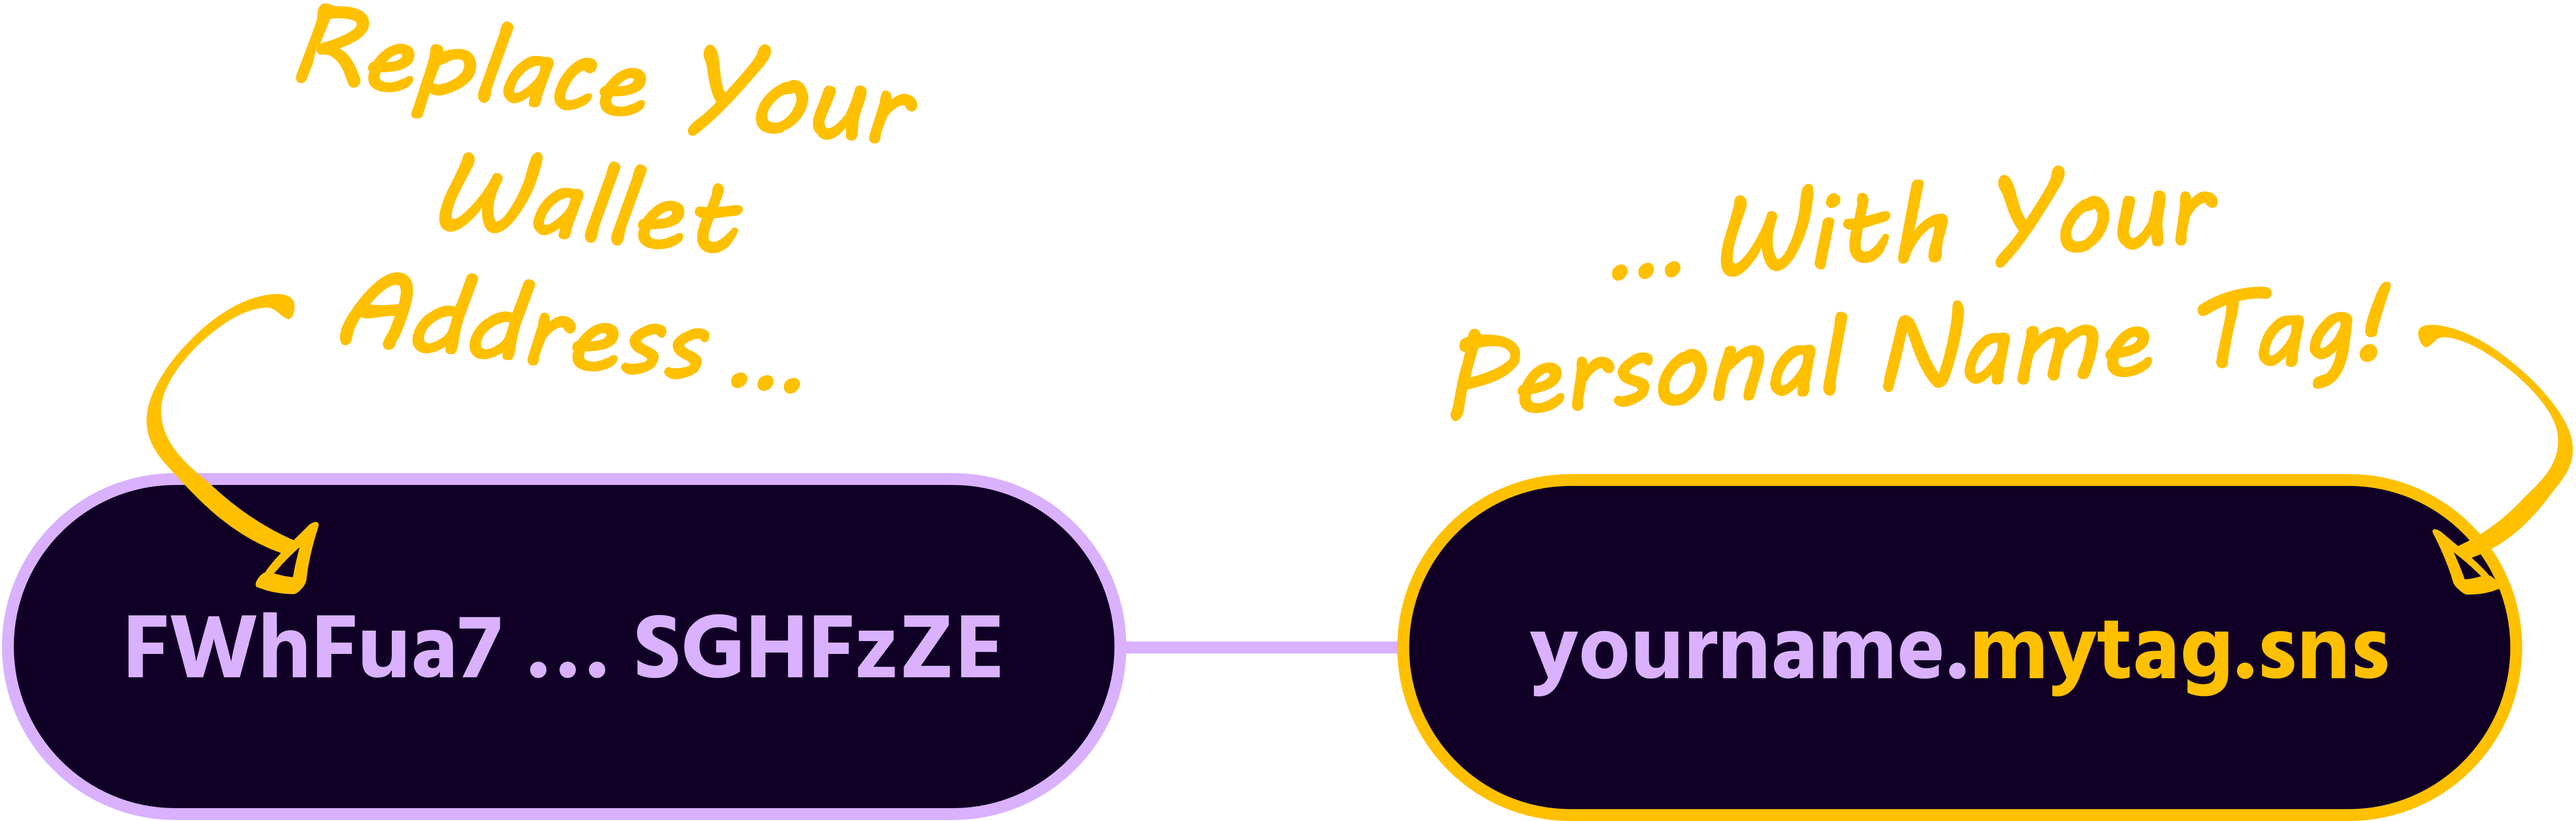
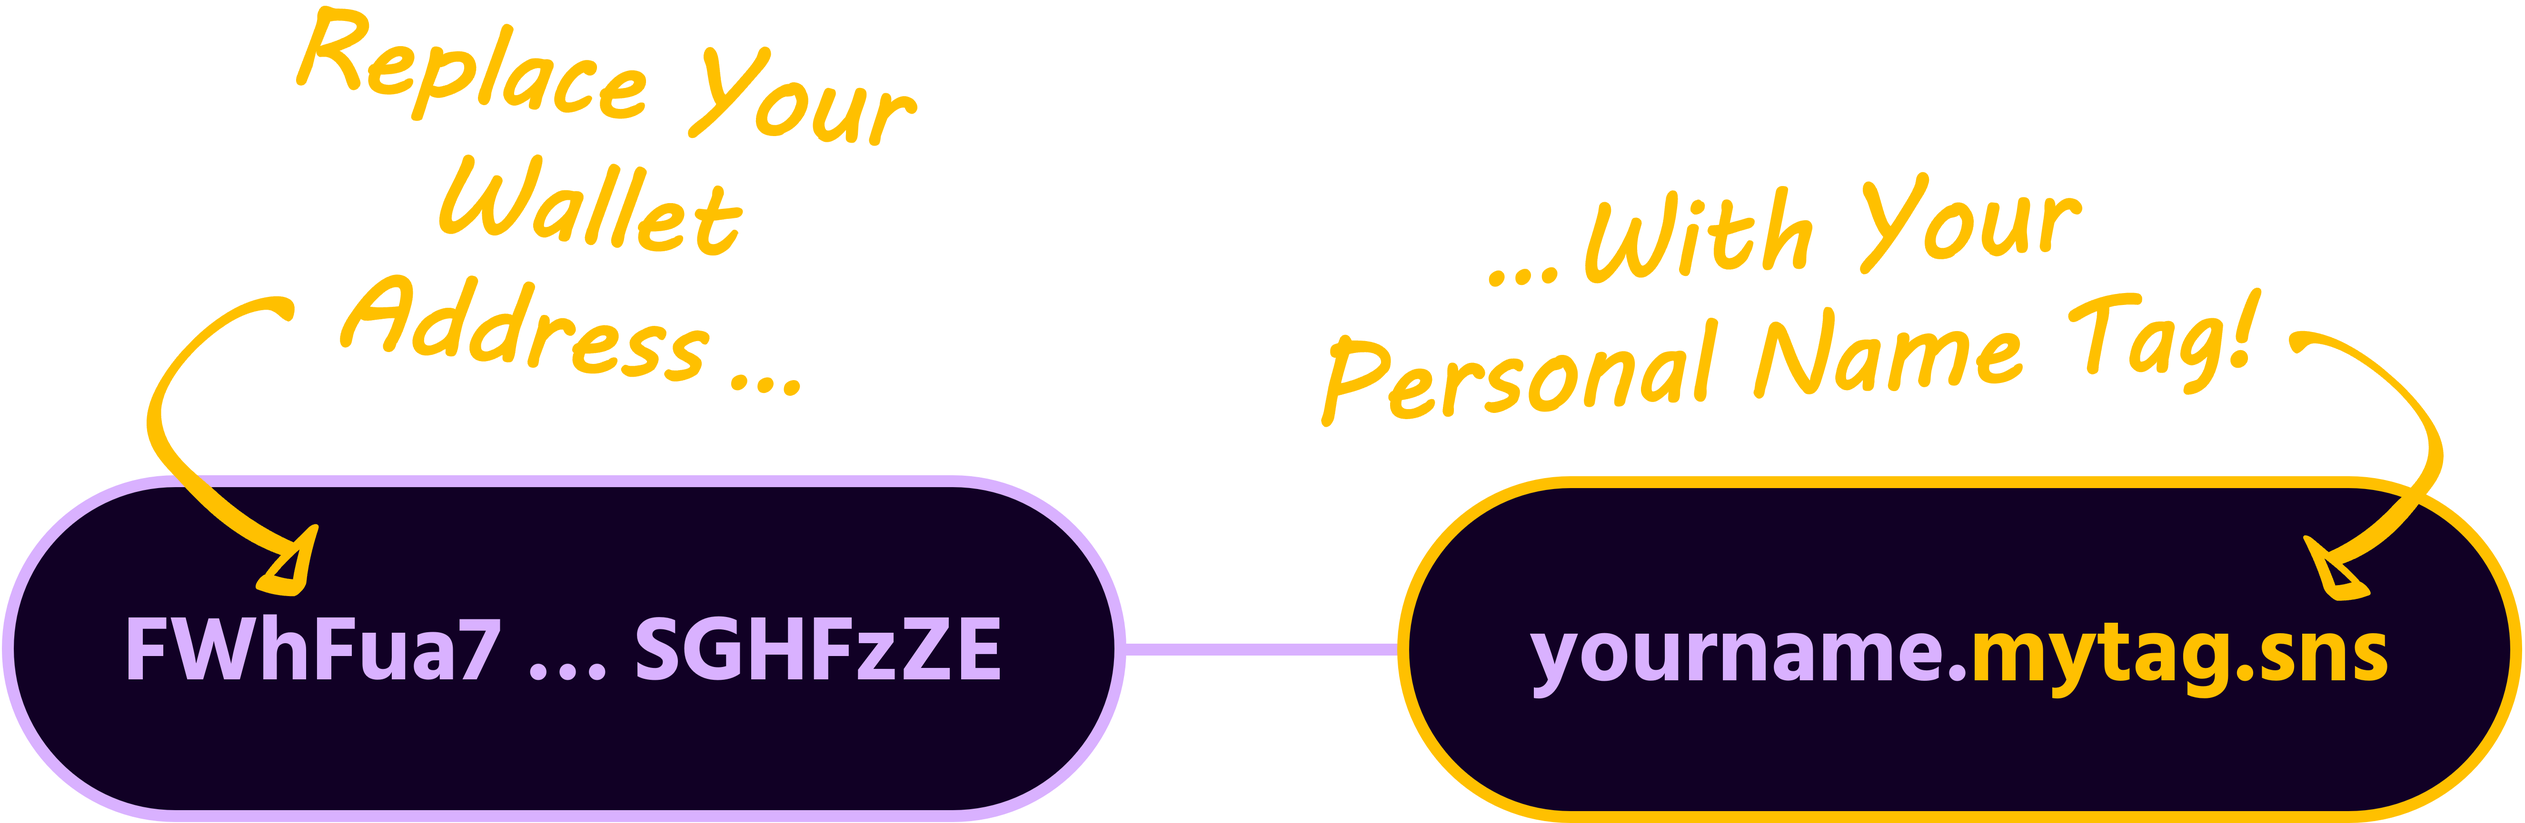
UI and UX update

diff --git a/assets/css/01-hero.css b/assets/css/01-hero.css
@@ -79,7 +79,7 @@
 
 .explainer-img {
 	display: block;
-	width: min(92%, 560px);
+	width: min(88%, 500px);
 	max-width: 100%;
 	height: auto;
 	border-radius: var(--radius-card);
@@ -190,17 +190,14 @@
 	margin: 0 auto;
 	overflow: hidden;
 	padding: 0.55rem 0.9rem;
-	border: 1px solid rgba(217, 177, 255, 0.32);
-	border-bottom-color: rgba(255, 192, 0, 0.7);
+	border: 1px solid rgba(217, 177, 255, 0.38);
 	border-radius: 18px;
 	background:
-		linear-gradient(180deg, rgba(255, 255, 255, 0.045), rgba(255, 255, 255, 0.012) 42%, transparent),
-		rgba(5, 0, 15, 0.84);
+		linear-gradient(180deg, rgba(255, 255, 255, 0.05), rgba(255, 255, 255, 0.014) 42%, transparent),
+		rgba(5, 0, 15, 0.88);
 	box-shadow:
-		inset 0 -1px 0 rgba(255, 192, 0, 0.28),
-		inset 0 1px 0 rgba(255, 255, 255, 0.04),
-		0 16px 36px rgba(0, 0, 0, 0.28),
-		0 0 28px rgba(255, 192, 0, 0.035);
+		inset 0 1px 0 rgba(255, 255, 255, 0.045),
+		0 14px 32px rgba(0, 0, 0, 0.28);
 	cursor: text;
 	transition: width 0.34s cubic-bezier(0.2, 0.72, 0.28, 1), border-color 0.18s ease, box-shadow 0.18s ease, background 0.18s ease;
 }
@@ -268,20 +265,21 @@
 }
 
 .hero-name-input-row:focus-within {
-	border-color: rgba(255, 216, 77, 0.78);
+	border-color: rgba(255, 192, 0, 0.72);
 	background: rgba(5, 0, 15, 0.96);
 	box-shadow:
-		inset 0 -1px 0 rgba(255, 216, 77, 0.5),
 		inset 0 1px 0 rgba(255, 255, 255, 0.055),
-		0 18px 40px rgba(0, 0, 0, 0.32),
-		0 0 28px rgba(255, 192, 0, 0.1);
+		0 0 0 1px rgba(255, 192, 0, 0.18),
+		0 16px 36px rgba(0, 0, 0, 0.3),
+		0 0 24px rgba(255, 192, 0, 0.08);
 }
 
 .hero-name-input-row.is-invalid {
-	border-color: rgba(255, 216, 77, 0.86);
+	border-color: rgba(255, 192, 0, 0.8);
 	box-shadow:
-		inset 0 -1px 0 rgba(255, 192, 0, 0.45),
-		0 0 20px rgba(255, 192, 0, 0.12);
+		inset 0 1px 0 rgba(255, 255, 255, 0.04),
+		0 0 0 1px rgba(255, 192, 0, 0.22),
+		0 0 18px rgba(255, 192, 0, 0.1);
 }
 
 .hero-name-input-wrap {
@@ -533,15 +531,15 @@
 	--picker-side-gap: 0.72rem;
 	--picker-side-pad: 1.6rem;
 	--picker-near-left: 27%;
-	--picker-near-opacity: 0.5;
+	--picker-near-opacity: 0.78;
 	--picker-near-right: 73%;
-	--picker-near-width: 16%;
+	--picker-near-width: 18%;
 	position: relative;
 	display: block;
 	width: min(100%, calc(var(--hero-row-width) - 2.4rem));
 	max-width: var(--hero-control-width);
 	height: 48px;
-	margin: 0.26rem auto 0;
+	margin: 0.34rem auto 0;
 	overflow: hidden;
 	padding: 0 1.18rem;
 	border: 0;
@@ -625,14 +623,15 @@
 	border: 0;
 	border-radius: 0;
 	background: transparent;
-	color: rgba(255, 255, 255, 0.35);
+	color: rgba(230, 214, 255, 0.72);
 	font-size: var(--picker-font-size);
 	font-weight: 600;
 	line-height: 1;
-	opacity: 0.4;
+	opacity: 0.72;
 	overflow: hidden;
 	text-overflow: ellipsis;
-	transform: translate(calc(-50% + var(--picker-offset)), -50%) scale(0.88);
+	cursor: pointer;
+	transform: translate(calc(-50% + var(--picker-offset)), -50%) scale(0.9);
 	transition: color 0.24s ease, left 0.68s cubic-bezier(0.24, 0.72, 0.18, 1), opacity 0.34s ease, transform 0.68s cubic-bezier(0.24, 0.72, 0.18, 1), width 0.68s cubic-bezier(0.24, 0.72, 0.18, 1);
 	white-space: nowrap;
 }
@@ -641,9 +640,9 @@
 	content: "";
 	position: absolute;
 	left: 50%;
-	bottom: 0.04rem;
-	width: 12px;
-	height: 1.5px;
+	bottom: 0.02rem;
+	width: 18px;
+	height: 2px;
 	border-radius: 2px;
 	background: var(--color-gold);
 	opacity: 0;
@@ -665,10 +664,11 @@
 	left: 50%;
 	z-index: 2;
 	justify-content: flex-end;
+	color: rgba(230, 214, 255, 0.78);
 	opacity: var(--picker-near-opacity);
 	text-align: right;
-	-webkit-mask-image: linear-gradient(90deg, transparent, #000000 34%, #000000 100%);
-	mask-image: linear-gradient(90deg, transparent, #000000 34%, #000000 100%);
+	-webkit-mask-image: linear-gradient(90deg, transparent, #000000 18%, #000000 100%);
+	mask-image: linear-gradient(90deg, transparent, #000000 18%, #000000 100%);
 }
 
 .hero-name-option[data-position="0"] {
@@ -688,10 +688,11 @@
 	left: 50%;
 	z-index: 2;
 	justify-content: flex-start;
+	color: rgba(230, 214, 255, 0.78);
 	opacity: var(--picker-near-opacity);
 	text-align: left;
-	-webkit-mask-image: linear-gradient(90deg, #000000 0%, #000000 66%, transparent);
-	mask-image: linear-gradient(90deg, #000000 0%, #000000 66%, transparent);
+	-webkit-mask-image: linear-gradient(90deg, #000000 0%, #000000 82%, transparent);
+	mask-image: linear-gradient(90deg, #000000 0%, #000000 82%, transparent);
 }
 
 .hero-name-option[data-position="2"] {
@@ -751,7 +752,7 @@
 }
 
 .hero-name-option.active::after {
-	opacity: 0.64;
+	opacity: 0.9;
 	transform: translateX(-50%) scaleX(1);
 }
 
@@ -771,14 +772,14 @@
 	--picker-side-gap: 0.72rem;
 	--picker-side-pad: 1.6rem;
 	--picker-near-left: 27%;
-	--picker-near-opacity: 0.5;
+	--picker-near-opacity: 0.78;
 	--picker-near-right: 73%;
-	--picker-near-width: 16%;
+	--picker-near-width: 18%;
 	position: relative;
 	width: min(100%, calc(var(--hero-row-width) - 2.4rem));
 	max-width: var(--hero-control-width);
 	height: 48px;
-	margin: 0.26rem auto 0;
+	margin: 0.34rem auto 0;
 	overflow: hidden;
 	padding: 0 1.18rem;
 }
@@ -798,14 +799,15 @@
 	min-width: 0;
 	min-height: 30px;
 	padding: 0.23rem 0.18rem;
-	color: rgba(255, 255, 255, 0.42);
+	color: rgba(230, 214, 255, 0.72);
 	font-size: var(--picker-font-size);
 	font-weight: 600;
 	line-height: 1;
 	overflow: hidden;
 	text-overflow: ellipsis;
 	text-decoration: none;
-	transform: translate(calc(-50% + var(--picker-offset)), -50%) scale(0.88);
+	cursor: pointer;
+	transform: translate(calc(-50% + var(--picker-offset)), -50%) scale(0.9);
 	white-space: nowrap;
 }
 
@@ -814,11 +816,12 @@
 	z-index: 2;
 	justify-content: flex-end;
 	width: 24%;
+	color: rgba(230, 214, 255, 0.78);
 	opacity: var(--picker-near-opacity);
 	text-align: right;
-	-webkit-mask-image: linear-gradient(90deg, transparent, #000000 28%, #000000 100%);
-	mask-image: linear-gradient(90deg, transparent, #000000 28%, #000000 100%);
-	transform: translate(-50%, -50%) scale(0.88);
+	-webkit-mask-image: linear-gradient(90deg, transparent, #000000 18%, #000000 100%);
+	mask-image: linear-gradient(90deg, transparent, #000000 18%, #000000 100%);
+	transform: translate(-50%, -50%) scale(0.9);
 }
 
 .hero-name-option-fallback.is-active {
@@ -833,12 +836,12 @@
 	content: "";
 	position: absolute;
 	left: 50%;
-	bottom: 0.04rem;
-	width: 12px;
-	height: 1.5px;
+	bottom: 0.02rem;
+	width: 18px;
+	height: 2px;
 	border-radius: 2px;
 	background: var(--color-gold);
-	opacity: 0.64;
+	opacity: 0.9;
 	transform: translateX(-50%);
 }
 
@@ -866,11 +869,12 @@
 	z-index: 2;
 	justify-content: flex-start;
 	width: 24%;
+	color: rgba(230, 214, 255, 0.78);
 	opacity: var(--picker-near-opacity);
 	text-align: left;
-	-webkit-mask-image: linear-gradient(90deg, #000000 0%, #000000 72%, transparent);
-	mask-image: linear-gradient(90deg, #000000 0%, #000000 72%, transparent);
-	transform: translate(-50%, -50%) scale(0.88);
+	-webkit-mask-image: linear-gradient(90deg, #000000 0%, #000000 82%, transparent);
+	mask-image: linear-gradient(90deg, #000000 0%, #000000 82%, transparent);
+	transform: translate(-50%, -50%) scale(0.9);
 }
 
 .hero-name-option-fallback.is-far-left {
@@ -1130,9 +1134,9 @@
 		--picker-far-width: 0%;
 		--picker-font-size: 1.04rem;
 		--picker-near-left: 26%;
-		--picker-near-opacity: 0.44;
+		--picker-near-opacity: 0.7;
 		--picker-near-right: 74%;
-		--picker-near-width: 14%;
+		--picker-near-width: 16%;
 		width: min(72vw, calc(var(--hero-row-width) - 4rem));
 		max-width: 268px;
 		padding-right: 1rem;
@@ -1240,9 +1244,9 @@
 		--picker-far-width: 0%;
 		--picker-font-size: 1.12rem;
 		--picker-near-left: 27%;
-		--picker-near-opacity: 0.48;
+		--picker-near-opacity: 0.78;
 		--picker-near-right: 73%;
-		--picker-near-width: 16%;
+		--picker-near-width: 18%;
 		width: min(100%, calc(var(--hero-row-width) - 2.4rem));
 		max-width: var(--hero-control-width);
 	}
@@ -1269,8 +1273,9 @@
 		--picker-far-width: 0%;
 		--picker-font-size: 1.12rem;
 		--picker-near-left: 27%;
+		--picker-near-opacity: 0.78;
 		--picker-near-right: 73%;
-		--picker-near-width: 16%;
+		--picker-near-width: 18%;
 		max-width: var(--hero-control-width);
 	}
 
@@ -1324,7 +1329,7 @@
 	}
 
 	.explainer-img {
-		width: min(86%, 620px);
+		width: min(72%, 480px);
 		height: auto;
 	}
 }

diff --git a/index.html b/index.html
@@ -218,7 +218,7 @@
 		<!-- Hero: Introduces the name tag idea before the registrar list. -->
 		<section class="hero-section reveal-section is-visible" aria-labelledby="hero-title">
 			<div class="hero-header">
-				<img class="image-logo" src="assets/img/logo-with-slogan.png" alt="mytag.sns" width="210" height="154" loading="eager" decoding="async" />
+				<img class="image-logo" src="assets/img/logo-with-name.png" alt="mytag.sns" width="210" height="154" loading="eager" decoding="async" />
 				<div class="hero-intro">
 					<p class="intro-kicker">Solana name tags</p>
 					<h1 id="hero-title" class="intro-headline">Your Name. Instead Of Your Wallet Address.</h1>
@@ -227,7 +227,7 @@
 			</div>
 
 			<div class="hero-explainer">
-				<img class="explainer-img" src="assets/img/explainer.png" alt="A wallet address changing into a readable mytag.sns name tag." width="560" height="178" loading="eager" decoding="async" />
+				<img class="explainer-img" src="assets/img/explainer.png" alt="A wallet address changing into a readable mytag.sns name tag." width="480" height="152" loading="eager" decoding="async" />
 			</div>
 			<a class="hero-scroll-cue hero-scroll-cue--intro" href="#hero-name-tool" aria-label="Scroll to name preview"></a>
 
@@ -314,10 +314,10 @@
 						</div>
 					</div>
 					<div class="benefit-pill">
-						<img class="bp-icon-img" src="assets/img/benefits/lock.png" alt="" aria-hidden="true" width="32" height="32" />
+						<img class="bp-icon-img" src="assets/img/benefits/wallet.png" alt="" aria-hidden="true" width="32" height="32" />
 						<div class="bp-text">
-							<strong>Yours After Checkout</strong>
-							<span>Assigned to your wallet after checkout completes.<sup>2</sup></span>
+							<strong>Simplify Transactions</strong>
+							<span>Send and receive with a readable name instead of a long wallet string.<sup>2</sup></span>
 						</div>
 					</div>
 					<div class="benefit-pill">
@@ -352,7 +352,7 @@
 				<a class="domain-card" href="https://v1.sns.id/sub-registrar/gbonk" target="_blank" rel="noopener noreferrer" data-theme="meme" aria-label="Register a gbonk.sns subdomain">
 					<div class="card-topline"><span class="card-badge">Meme</span></div>
 					<div class="domain-name"><span>yourname.</span><strong>gbonk.sns</strong></div>
-					<p><span>A BONK-native tag</span><span>for the community.</span></p>
+					<p><span>gBONK! A BONK-native tag</span><span>for the community.</span></p>
 					<span class="card-cta">Register on SNS</span>
 				</a>
 
@@ -430,7 +430,7 @@
 				<a class="bc" href="https://v1.sns.id/sub-registrar/fames" target="_blank" rel="noopener noreferrer" data-cat="community creator" data-name="fames"><span class="bc-badge">Community</span><div class="bc-name"><span>yourname.</span><strong>fames.sns</strong></div><p>A standout name for people building a reputation.</p><span class="bc-cta">Register on SNS</span></a>
 				<a class="bc" href="https://v1.sns.id/sub-registrar/bonktag" target="_blank" rel="noopener noreferrer" data-cat="meme" data-name="bonktag"><span class="bc-badge">Meme</span><div class="bc-name"><span>yourname.</span><strong>bonktag.sns</strong></div><p>Your BONK identity. Simple, loud, unmistakable.</p><span class="bc-cta">Register on SNS</span></a>
 				<a class="bc" href="https://v1.sns.id/sub-registrar/bonkog" target="_blank" rel="noopener noreferrer" data-cat="meme community" data-name="bonkog"><span class="bc-badge">Meme</span><div class="bc-name"><span>yourname.</span><strong>bonkog.sns</strong></div><p>BONK OG energy, carried onchain.</p><span class="bc-cta">Register on SNS</span></a>
-				<a class="bc" href="https://v1.sns.id/sub-registrar/gbonk" target="_blank" rel="noopener noreferrer" data-cat="meme community" data-name="gbonk"><span class="bc-badge">Meme</span><div class="bc-name"><span>yourname.</span><strong>gbonk.sns</strong></div><p>A BONK-native namespace for the community.</p><span class="bc-cta">Register on SNS</span></a>
+				<a class="bc" href="https://v1.sns.id/sub-registrar/gbonk" target="_blank" rel="noopener noreferrer" data-cat="meme community" data-name="gbonk"><span class="bc-badge">Meme</span><div class="bc-name"><span>yourname.</span><strong>gbonk.sns</strong></div><p>gBONK! A BONK-native namespace for the community.</p><span class="bc-cta">Register on SNS</span></a>
 				<a class="bc" href="https://v1.sns.id/sub-registrar/memecoinape" target="_blank" rel="noopener noreferrer" data-cat="meme" data-name="memecoinape"><span class="bc-badge">Meme</span><div class="bc-name"><span>yourname.</span><strong>memecoinape.sns</strong></div><p>Proud meme coin degen? Put it onchain. No apologies.</p><span class="bc-cta">Register on SNS</span></a>
 				<a class="bc" href="https://v1.sns.id/sub-registrar/gametag" target="_blank" rel="noopener noreferrer" data-cat="gaming identity" data-name="gametag"><span class="bc-badge">Gaming</span><div class="bc-name"><span>yourname.</span><strong>gametag.sns</strong></div><p>Your gamer tag, now onchain.</p><span class="bc-cta">Register on SNS</span></a>
 				<a class="bc" href="https://v1.sns.id/sub-registrar/playverse" target="_blank" rel="noopener noreferrer" data-cat="gaming" data-name="playverse"><span class="bc-badge">Gaming</span><div class="bc-name"><span>yourname.</span><strong>playverse.sns</strong></div><p>A play-ready name for gamers and game worlds.</p><span class="bc-cta">Register on SNS</span></a>
@@ -576,7 +576,7 @@
 
 		<div class="footer-footnotes">
 			<p><sup>1</sup> Listed registrars currently start from 1 USDC for eligible names, plus transaction and platform fees. Prices, tiers, fees, accepted tokens, and availability can change at any time without prior notice. Final pricing is shown on SNS before purchase. "Less than a coffee" is a simple price comparison; real coffee prices vary by country, city, venue, currency, and date.</p>
-			<p><sup>2</sup> "Assigned to your wallet" reflects the current subdomain registrar flow. SNS documentation notes that subdomains can differ from root .sns domains, including parent-domain and registrar considerations as well as limited wallet support. Subdomains can support transfer and data updates where supported by the relevant tooling.</p>
+			<p><sup>2</sup> Readable-name sends and receives depend on wallet and app support for SNS resolution. Subdomains can differ from root .sns domains, including parent-domain and registrar considerations as well as limited wallet support. Always confirm the resolved address in your wallet before signing.</p>
 		</div>
 
 		<div class="footer-divider-sm"></div>

diff --git a/assets/css/03-browser-section.css b/assets/css/03-browser-section.css
@@ -207,30 +207,30 @@
 		linear-gradient(135deg, rgba(38, 16, 92, 0.78), rgba(14, 0, 31, 0.7));
 }
 
-.bc[data-cat="identity"] {
+.bc[data-cat~="identity"] {
 	--bc-accent: rgba(255, 192, 0, 0.3);
 	--bc-accent-soft: rgba(255, 192, 0, 0.045);
 }
 
-.bc[data-cat="community"] {
+.bc[data-cat~="community"] {
 	--bc-accent: rgba(217, 177, 255, 0.34);
 	--bc-accent-soft: rgba(217, 177, 255, 0.065);
 }
 
-.bc[data-cat="meme"] {
+.bc[data-cat~="meme"] {
 	--bc-accent: rgba(255, 159, 45, 0.34);
 	--bc-accent-soft: rgba(255, 159, 45, 0.07);
 }
 
-.bc[data-cat="business"],
-.bc[data-cat="finance"] {
+.bc[data-cat~="business"],
+.bc[data-cat~="finance"] {
 	--bc-accent: rgba(96, 190, 255, 0.28);
 	--bc-accent-soft: rgba(96, 190, 255, 0.055);
 }
 
-.bc[data-cat="creator"],
-.bc[data-cat="gaming"],
-.bc[data-cat="ai"] {
+.bc[data-cat~="creator"],
+.bc[data-cat~="gaming"],
+.bc[data-cat~="si-ai"] {
 	--bc-accent: rgba(120, 255, 214, 0.24);
 	--bc-accent-soft: rgba(120, 255, 214, 0.048);
 }
